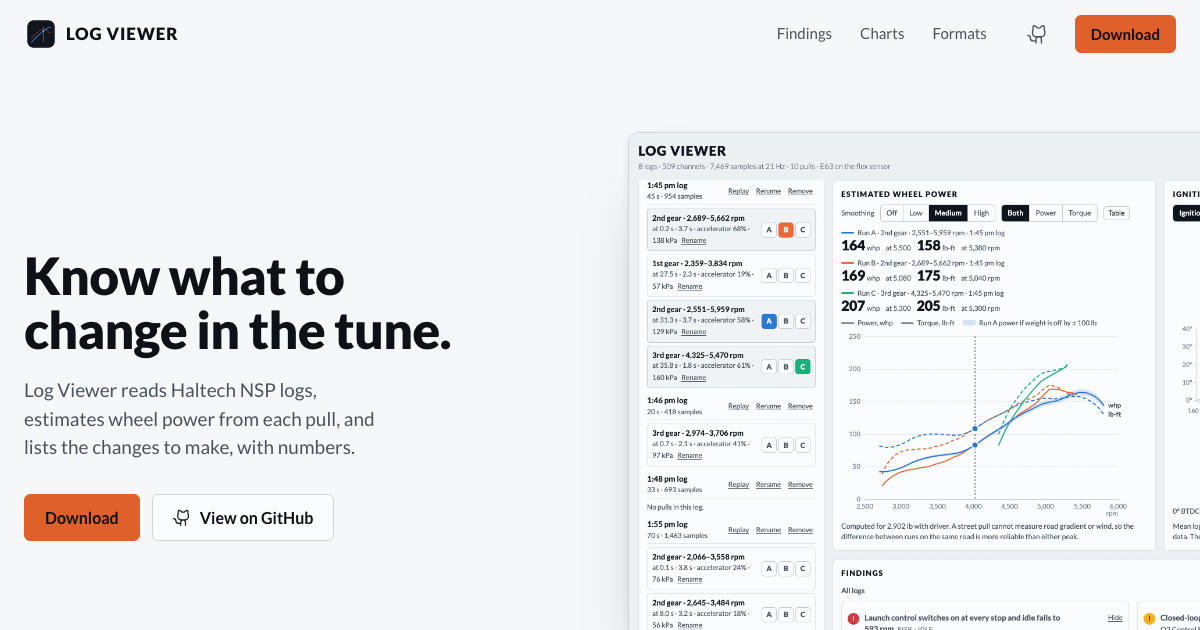
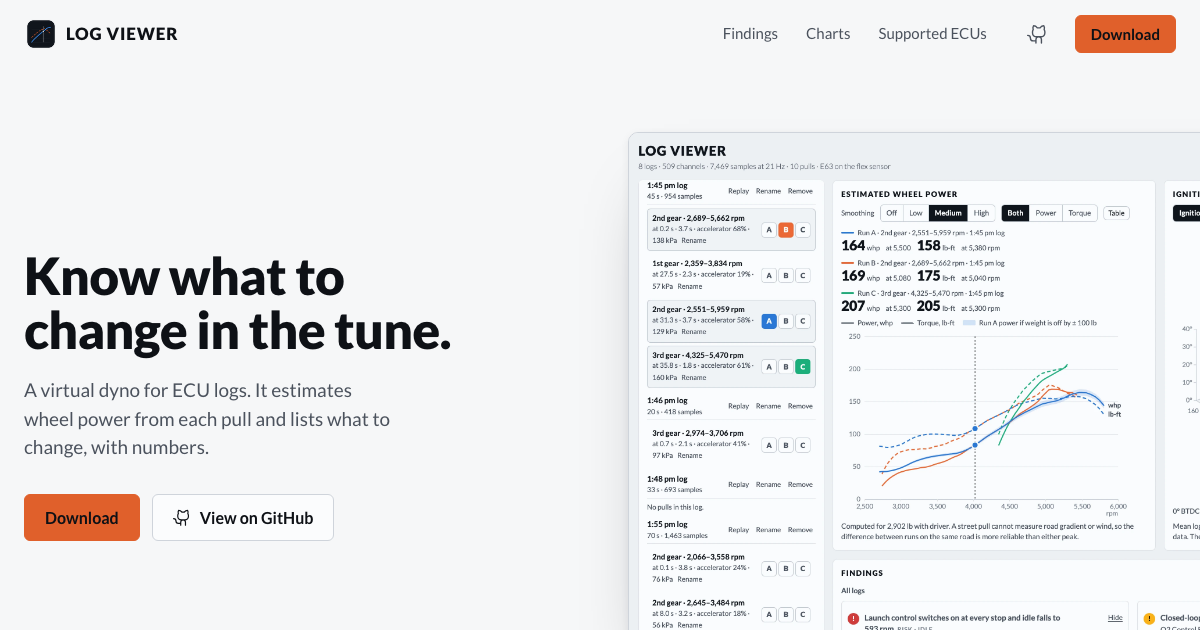
Website: call it a virtual dyno, add the supported-ECU chart
The page no longer ties itself to NSP. A chart lists the log formats the
app is aiming for, with a check on each one it reads today. Screenshots
retaken from the updated app.

Changed region(s): [[0.0, 0.6032, 0.3392, 0.7238], [0.5858, 0.0302, 0.8325, 0.0603]]

diff --git a/site/index.html b/site/index.html
@@ -4,15 +4,18 @@
     <meta charset="utf-8" />
     <meta name="viewport" content="width=device-width, initial-scale=1" />
     <meta name="color-scheme" content="light dark" />
-    <title>Log Viewer: ECU log analysis with a virtual dyno</title>
+    <title>Log Viewer: a virtual dyno for ECU logs</title>
     <meta
       name="description"
-      content="Log Viewer reads Haltech NSP logs, estimates wheel power from each pull, and lists what to change in the tune. Open source, for macOS, Windows, iPhone and iPad."
+      content="Log Viewer is a virtual dyno for ECU logs. It estimates wheel power from each pull and lists what to change in the tune. Open source, for macOS, Windows, iPhone and iPad."
     />
     <link rel="canonical" href="https://alecholmez.github.io/log-viewer/" />
     <meta property="og:type" content="website" />
     <meta property="og:title" content="Log Viewer" />
-    <meta property="og:description" content="Reads ECU logs, estimates wheel power from each pull, and lists what to change in the tune." />
+    <meta
+      property="og:description"
+      content="A virtual dyno for ECU logs. It estimates wheel power from each pull and lists what to change in the tune."
+    />
     <meta property="og:url" content="https://alecholmez.github.io/log-viewer/" />
     <meta property="og:image" content="https://alecholmez.github.io/log-viewer/og.png" />
     <meta property="og:image:width" content="1200" />
@@ -31,6 +34,9 @@
         <path
           d="M208.31,75.68A59.78,59.78,0,0,0,202.93,28,8,8,0,0,0,196,24a59.75,59.75,0,0,0-48,24H124A59.75,59.75,0,0,0,76,24a8,8,0,0,0-6.93,4,59.78,59.78,0,0,0-5.38,47.68A58.14,58.14,0,0,0,56,104v8a56.06,56.06,0,0,0,48.44,55.47A39.8,39.8,0,0,0,96,192v8H72a24,24,0,0,1-24-24A40,40,0,0,0,8,136a8,8,0,0,0,0,16,24,24,0,0,1,24,24,40,40,0,0,0,40,40H96v16a8,8,0,0,0,16,0V192a24,24,0,0,1,48,0v40a8,8,0,0,0,16,0V192a39.8,39.8,0,0,0-8.44-24.53A56.06,56.06,0,0,0,216,112v-8A58.14,58.14,0,0,0,208.31,75.68ZM200,112a40,40,0,0,1-40,40H112a40,40,0,0,1-40-40v-8a41.74,41.74,0,0,1,6.9-22.48A8,8,0,0,0,80,73.83a43.81,43.81,0,0,1,.79-33.58,43.88,43.88,0,0,1,32.32,20.06A8,8,0,0,0,119.82,64h32.35a8,8,0,0,0,6.74-3.69,43.87,43.87,0,0,1,32.32-20.06A43.81,43.81,0,0,1,192,73.83a8.09,8.09,0,0,0,1,7.65A41.72,41.72,0,0,1,200,104Z"
         />
+      </symbol>
+      <symbol id="i-check" viewBox="0 0 256 256">
+        <path d="M229.66,77.66l-128,128a8,8,0,0,1-11.32,0l-56-56a8,8,0,0,1,11.32-11.32L96,188.69,218.34,66.34a8,8,0,0,1,11.32,11.32Z" />
       </symbol>
       <symbol id="i-arrow" viewBox="0 0 256 256">
         <path d="M200,64V168a8,8,0,0,1-16,0V83.31L69.66,197.66a8,8,0,0,1-11.32-11.32L172.69,72H88a8,8,0,0,1,0-16H192A8,8,0,0,1,200,64Z" />
@@ -57,7 +63,7 @@
       <nav class="nav-links" aria-label="Sections">
         <a href="#findings">Findings</a>
         <a href="#charts">Charts</a>
-        <a href="#formats">Formats</a>
+        <a href="#supported">Supported ECUs</a>
       </nav>
       <a class="nav-icon" href="https://github.com/alecholmez/log-viewer" aria-label="View on GitHub">
         <svg aria-hidden="true"><use href="#i-github" /></svg>
@@ -70,9 +76,7 @@
         <div class="wrap hero-grid">
           <div class="hero-copy">
             <h1>Know what to change in the tune.</h1>
-            <p class="lede">
-              Log Viewer reads Haltech NSP logs, estimates wheel power from each pull, and lists the changes to make, with numbers.
-            </p>
+            <p class="lede">A virtual dyno for ECU logs. It estimates wheel power from each pull and lists what to change, with numbers.</p>
             <div class="cta">
               <a class="btn primary" href="#download">Download</a>
               <a class="btn" href="https://github.com/alecholmez/log-viewer">
@@ -148,10 +152,10 @@
                 />
               </picture>
               <figcaption>
-                <h3>Wheel power from a road pull</h3>
+                <h3>Virtual dyno</h3>
                 <p>
-                  Mass times acceleration, plus drag and rolling resistance. Overlay up to three pulls from the same road to compare
-                  changes.
+                  Wheel power from a road pull: mass times acceleration, plus drag and rolling resistance. Overlay up to three pulls to
+                  compare changes.
                 </p>
               </figcaption>
             </figure>
@@ -191,14 +195,90 @@
         </div>
       </section>
 
-      <section class="section" id="formats">
-        <div class="wrap formats">
+      <section class="section" id="supported">
+        <div class="wrap">
           <div class="section-head">
-            <h2>Haltech NSP logs today</h2>
-            <p>Laptop logs saved by NSP open as they are. Link ECU logs are next, and more will follow.</p>
+            <h2>Supported ECUs</h2>
+            <p>A check means Log Viewer reads that log today. The rest are planned, and each gets its check here when it lands.</p>
             <a class="link" href="https://github.com/alecholmez/log-viewer/issues/new">
               Request a format<svg aria-hidden="true"><use href="#i-arrow" /></svg>
             </a>
+          </div>
+          <!-- To mark one as supported: give its <li> class="yes" and the check icon, as on Haltech. -->
+          <ul class="ecus reveal">
+            <li>Access Tuner Race</li>
+            <li>Adaptronic</li>
+            <li>AEM / DSM Link</li>
+            <li>AlcaTek</li>
+            <li>Autronic</li>
+            <li>BootMod3</li>
+            <li>BtSsm</li>
+            <li>Cobb Access Port</li>
+            <li>Crome</li>
+            <li>DiabloSport</li>
+            <li>DiabloTrinity</li>
+            <li>DTA ECU</li>
+            <li>ECM Link</li>
+            <li>eCtune</li>
+            <li>ECU Explorer</li>
+            <li>ECU Master</li>
+            <li>EcuTek</li>
+            <li>EFI Live Enduring Solutions</li>
+            <li>Eurodyne Maestro</li>
+            <li>EvoLiveMap</li>
+            <li>EvoScan</li>
+            <li>FC-Datalogit</li>
+            <li>Forscan</li>
+            <li>GReddy EManage</li>
+            <li class="yes">
+              <svg aria-hidden="true"><use href="#i-check" /></svg>Haltech <span class="sr-only">(supported)</span>
+            </li>
+            <li>Halwin</li>
+            <li>Hand Held Halo</li>
+            <li>Holley EFI</li>
+            <li>Hondata</li>
+            <li>HPTuners</li>
+            <li>Hydra EMS</li>
+            <li>Innovate</li>
+            <li>Integrated Engineering</li>
+            <li>JuiceBox</li>
+            <li>Link G4 <small>next</small></li>
+            <li>LS2Edit</li>
+            <li>MaxxECU</li>
+            <li>MazdaEdit</li>
+            <li>MegaSquirt</li>
+            <li>ME221</li>
+            <li>MHD Flasher</li>
+            <li>MoTeC</li>
+            <li>Neptune</li>
+            <li>NismoTronic</li>
+            <li>Nissan Data Scan</li>
+            <li>Nistune</li>
+            <li>Procede</li>
+            <li>Pro Tuning Freaks</li>
+            <li>RomRaider</li>
+            <li>ScanXL</li>
+            <li>SCT</li>
+            <li>Syvecs ECU</li>
+            <li>Tactrix</li>
+            <li>Torque (Android)</li>
+            <li>TrackAddict HD</li>
+            <li>Tuner Pro</li>
+            <li>UpRev Cipher</li>
+            <li>UVScan</li>
+            <li>VAGCOM</li>
+            <li>VEMS</li>
+            <li>VersaTuner</li>
+            <li>ViPEC</li>
+          </ul>
+        </div>
+      </section>
+
+      <section class="section" id="logs">
+        <div class="wrap formats">
+          <div class="section-head">
+            <h2>Getting logs in</h2>
+            <p>Logs are copied into the app’s own library, so the original can be moved or deleted afterwards.</p>
           </div>
           <dl class="ways reveal">
             <div>
@@ -215,7 +295,7 @@
             </div>
             <div>
               <dt>On your device</dt>
-              <dd>Logs are copied into the app’s own library. Nothing is uploaded.</dd>
+              <dd>Everything is read on your device. Nothing is uploaded.</dd>
             </div>
           </dl>
         </div>
@@ -262,7 +342,7 @@
 
     <footer>
       <div class="wrap foot">
-        <p>Log Viewer is open source under the Apache 2.0 license. It is not affiliated with Haltech.</p>
+        <p>Log Viewer is open source under the Apache 2.0 license. It is not affiliated with any ECU maker.</p>
         <nav aria-label="Project">
           <a href="https://github.com/alecholmez/log-viewer">View on GitHub</a>
           <a href="https://github.com/alecholmez/log-viewer/issues">Issues</a>

diff --git a/site/styles.css b/site/styles.css
@@ -98,7 +98,15 @@ figcaption{color:var(--ink-2)}
 .chart.wide{grid-column:1 / -1;grid-row:auto;grid-template:auto / minmax(0,2fr) minmax(0,1fr);gap:40px;align-items:start;margin-top:64px}
 .chart.wide figcaption{margin-top:4px;padding-right:0}
 
-/* formats: what is read, and how logs get in */
+/* supported ECUs: one chart, a check on each one the app reads */
+.sr-only{position:absolute;width:1px;height:1px;overflow:hidden;clip-path:inset(50%);white-space:nowrap}
+.ecus{columns:5 170px;column-gap:28px;margin-top:40px;padding-top:20px;border-top:1px solid var(--rule);font-size:1rem}
+.ecus li{position:relative;padding:5px 0 5px 28px;color:var(--ink-2);break-inside:avoid}
+.ecus .yes{color:var(--ink);font-weight:700}
+.ecus svg{position:absolute;left:0;top:8px;width:19px;height:19px;color:var(--accent)}
+.ecus small{margin-left:6px;font-size:.8125rem;color:var(--ink-2);border:1px solid var(--rule);border-radius:var(--r-ui);padding:1px 6px}
+
+/* how logs get in */
 .formats{display:grid;grid-template-columns:minmax(0,5fr) minmax(0,7fr);gap:72px;align-items:start}
 .ways > div{display:grid;grid-template-columns:10rem minmax(0,1fr);gap:24px;padding-block:18px;border-top:1px solid var(--rule)}
 .ways > div:first-child{padding-top:6px;border-top:0}

diff --git a/README.md b/README.md
@@ -1,6 +1,6 @@
 # Log Viewer
 
-Reads ECU logs, estimates wheel power from them, and says what to change in the tune.
+A virtual dyno: it reads ECU logs, estimates wheel power from them, and says what to change in the tune.
 
 Supported today: Haltech NSP laptop logs (`PCLog_*.csv`). The format code is one module, so other ECUs (Link next) are added beside it.
 
